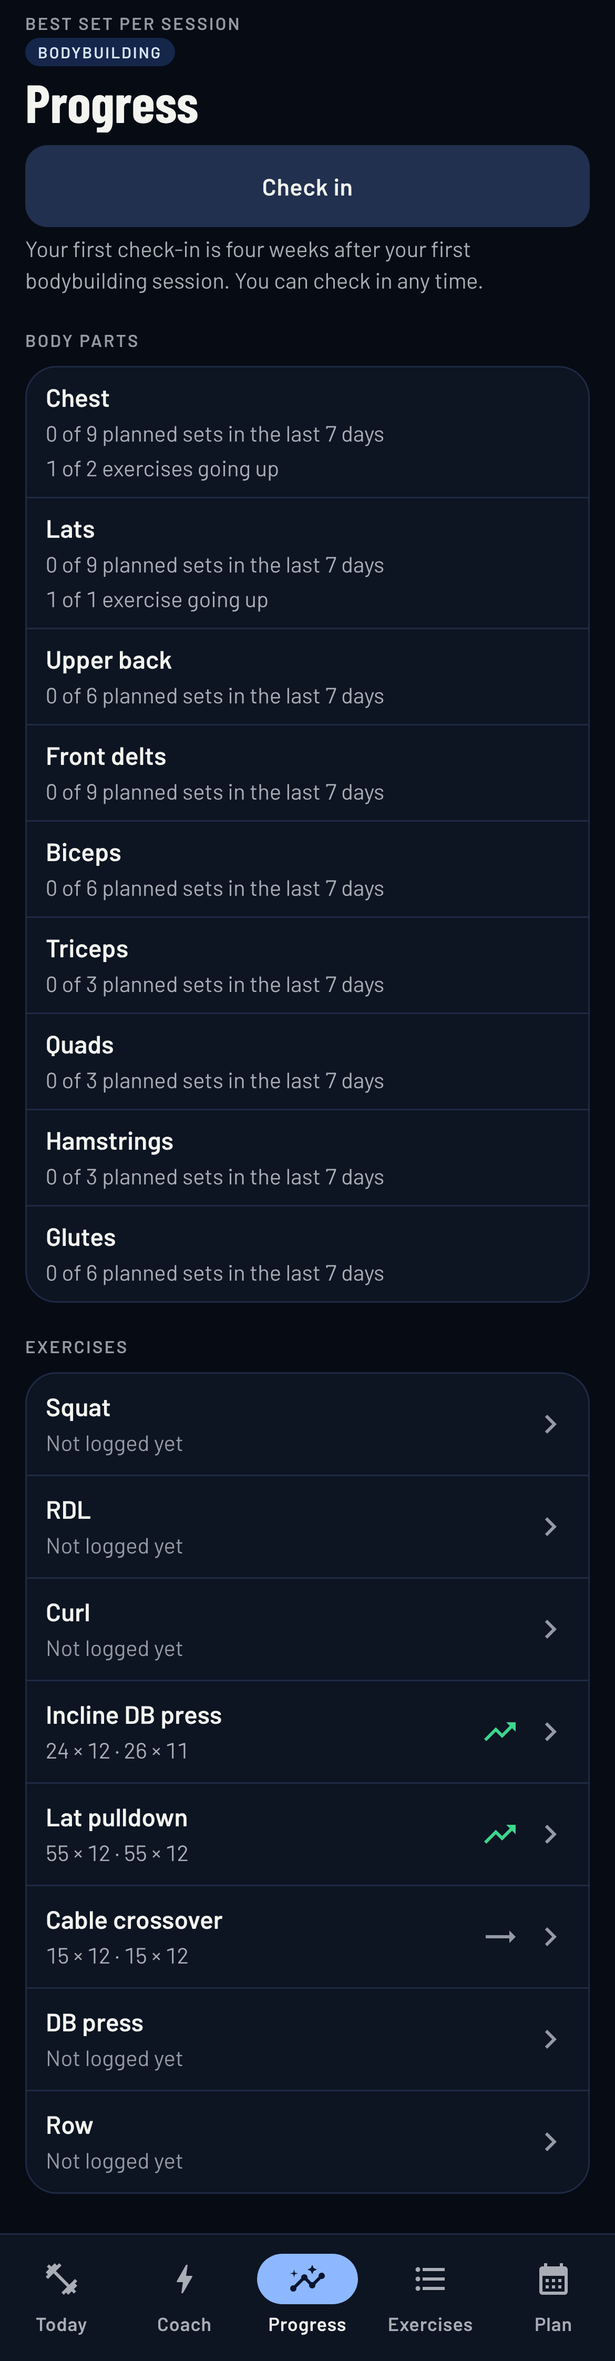
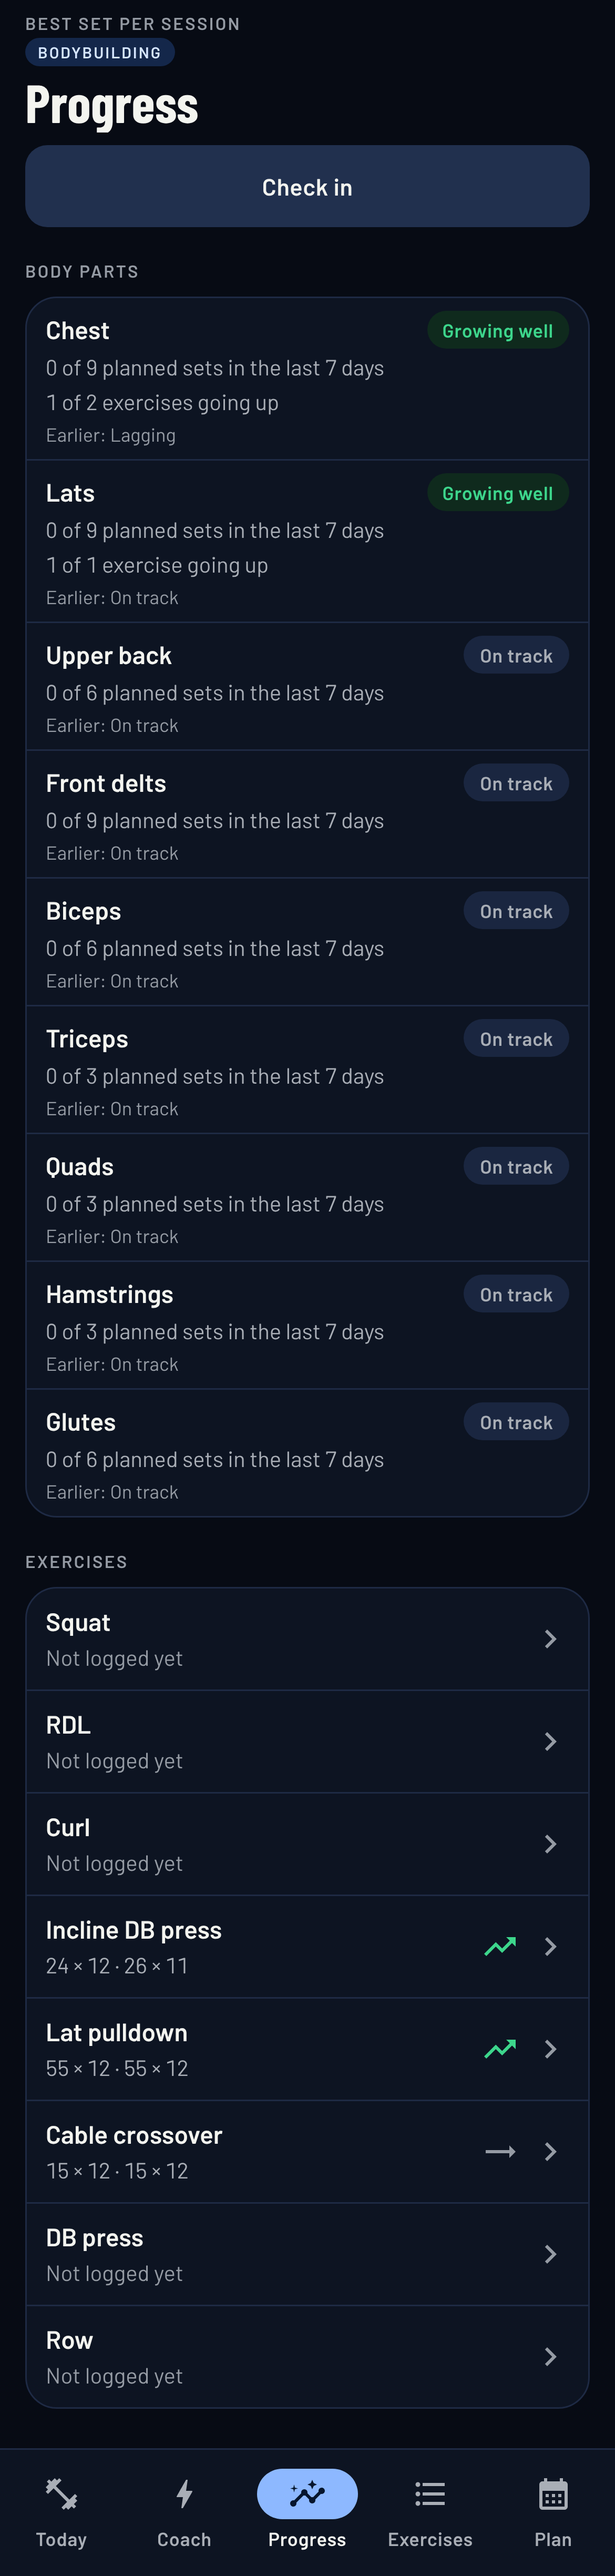
fix(web): check-in review: Back steps back, Save waits, failed writes tested
The browser's Back on step 2 of the check-in returns to step 1; Save is
disabled while it stores. Tests prove a failed Add to plan or Swap leaves
the plan and the card. The Progress screenshot shows ratings.

Claude-Session: https://claude.ai/code/session_01KboHw6FdBYrNDSMx1QWyzy

diff --git a/web/e2e/bodybuilding.spec.ts b/web/e2e/bodybuilding.spec.ts
@@ -40,6 +40,8 @@ type Story = {
    * cable crossover stuck since, with its open SWAP advice: a check-in is due again. The payloads are the domain's.
    */
   checkInDue?: boolean
+  /** Two check-ins (chest lagging four weeks ago, then growing well with lats two days ago), for Progress's ratings. */
+  checkIns?: boolean
 }
 
 /**
@@ -47,7 +49,7 @@ type Story = {
  * the bodybuilding plan (Monday, Wednesday, Friday), a powerlifting plan beside it, and two weeks of sessions.
  */
 async function seedStory(page: Page, story: Story = {}) {
-  await page.evaluate(async ({ todaySession = false, bodybuildingLeftOn = null, deload = false, checkInDue = false }) => {
+  await page.evaluate(async ({ todaySession = false, bodybuildingLeftOn = null, deload = false, checkInDue = false, checkIns = false }) => {
     const db = await new Promise<IDBDatabase>((done, fail) => {
       const request = indexedDB.open('grit')
       request.onsuccess = () => done(request.result)
@@ -132,6 +134,10 @@ async function seedStory(page: Page, story: Story = {}) {
         payloadJson: `{"type":"${P}.Swap","exerciseId":${crossover},"name":"Cable crossover","group":"CHEST","since":"2026-10-14","alternatives":["DB fly","Seated cable fly","Incline DB fly"]}`,
         mode: 'BODYBUILDING',
       })
+    }
+    if (checkIns) {
+      tx.objectStore('checkIns').add({ date: '2026-10-14', lagging: ['CHEST'], growingWell: [] })
+      tx.objectStore('checkIns').add({ date: '2026-11-09', lagging: [], growingWell: ['CHEST', 'LATS'] })
     }
     if (todaySession)
       await session('2026-11-11', [
@@ -318,6 +324,12 @@ for (const scheme of ['dark', 'light'] as const) {
       expect(await fitsThePhone(page)).toBe(true)
       await shoot(page, `checkin-lagging-bodybuilding-${scheme}`, 844)
       await page.getByRole('button', { name: 'Next' }).click()
+      // The browser's Back steps back to step 1, ticks kept, and Next goes on again.
+      await expect(page.getByRole('heading', { name: 'Which are growing well?' })).toBeVisible()
+      await page.goBack()
+      await expect(page.getByRole('heading', { name: 'Which body parts are lagging?' })).toBeVisible()
+      await expect(page.getByRole('checkbox', { name: 'Chest' })).toBeChecked()
+      await page.getByRole('button', { name: 'Next' }).click()
 
       await expect(page.getByRole('heading', { name: 'Which are growing well?' })).toBeVisible()
       await expect(page.getByRole('checkbox', { name: 'Chest' })).toBeDisabled()
@@ -345,7 +357,13 @@ for (const scheme of ['dark', 'light'] as const) {
 
     test('progress: each exercise’s best sets and whether it is going up', async ({ page }) => {
       await openOnWednesday(page, '#/progress')
-      await seedStory(page)
+      await seedStory(page, { checkIns: true })
+      // The body parts: each one's latest rating, and the earlier ones, oldest first.
+      const parts = page.getByRole('region', { name: 'Body parts' })
+      const chest = parts.getByRole('listitem').filter({ has: page.getByRole('heading', { name: 'Chest', exact: true }) })
+      await expect(chest).toContainText('Growing well')
+      await expect(chest).toContainText('Earlier: Lagging')
+      await expect(parts.getByRole('listitem').filter({ has: page.getByRole('heading', { name: 'Upper back', exact: true }) })).toContainText('On track')
       const incline = page.getByRole('button', { name: /^Incline DB press/ })
       await expect(incline).toContainText('24 × 12')
       await expect(incline).toContainText('26 × 11')
@@ -584,4 +602,16 @@ test('a check-in story: build a plan, train four weeks, check in, apply the coac
   await expect(row('Quads')).toContainText('Growing well')
   await expect(row('Lats')).toContainText('On track')
   await expect(page.getByText('Your first check-in is four weeks after your first bodybuilding session. You can check in any time.')).toHaveCount(0)
+})
+
+test('the check-in: the browser’s Back from step 1 leaves for where it was opened', async ({ page }) => {
+  await openOnWednesday(page, '#/progress')
+  await seedStory(page)
+  await page.getByRole('button', { name: 'Check in' }).click()
+  await page.getByRole('button', { name: 'Next' }).click()
+  await page.goBack()
+  await expect(page.getByRole('heading', { name: 'Which body parts are lagging?' })).toBeVisible()
+  await page.goBack()
+  await expect(page).toHaveURL(/#\/progress$/)
+  await expect(page.getByRole('heading', { level: 1, name: 'Progress' })).toBeVisible()
 })

diff --git a/web/src/screens/checkin/CheckInScreen.tsx b/web/src/screens/checkin/CheckInScreen.tsx
@@ -66,8 +66,42 @@ type ContentProps = { state: CheckInState; actions: CheckInActions; onLeave: () 
 
 const groups = () => grit.muscleGroups().map((id) => ({ id, label: grit.muscleGroupLabel(id) }))
 
+/** What the history entry of step 2 carries, beside what the page's own entry had (its `gritFrom`). */
+type StepEntry = { checkInStep?: 'growing' }
+const onStepEntry = () => (window.history.state as StepEntry | null)?.checkInStep === 'growing'
+
 function CheckInContent({ state, actions, onLeave, onSeeCoach, onDone }: ContentProps) {
   const { step } = state
+  // Step 2 has its own history entry (same address), so the browser's Back steps back to step 1, as Android's does;
+  // Back from step 1 leaves. What to do on the next popstate when it is not that: stay (after saving) or leave.
+  const nextPop = useRef<null | 'stay' | (() => void)>(null)
+  const stepNow = useRef(step)
+  stepNow.current = step
+  const { back } = actions
+  useEffect(() => {
+    const onPop = () => {
+      const then = nextPop.current
+      nextPop.current = null
+      if (then === 'stay') return
+      if (then != null) then()
+      else if (stepNow.current === 'growing') back()
+    }
+    window.addEventListener('popstate', onPop)
+    return () => window.removeEventListener('popstate', onPop)
+  }, [back])
+  const next = () => {
+    window.history.pushState({ ...((window.history.state as object | null) ?? {}), checkInStep: 'growing' } satisfies StepEntry, '')
+    actions.next()
+  }
+  /** Drops step 2's entry, then does `then` ('stay' keeps the screen as it is). */
+  const dropStepEntry = (then: 'stay' | (() => void)) => {
+    if (!onStepEntry()) {
+      if (then !== 'stay') then()
+      return
+    }
+    nextPop.current = then
+    window.history.back()
+  }
   // A failed save is a plain line over the buttons, until the next try.
   const [failed, setFailed] = useState(false)
   const failure = useRef<HTMLParagraphElement>(null)
@@ -78,6 +112,8 @@ function CheckInContent({ state, actions, onLeave, onSeeCoach, onDone }: Content
     setFailed(false)
     try {
       await actions.save()
+      // Saved: Back no longer goes to step 2, and Done or See Coach leave from the page's own entry.
+      dropStepEntry('stay')
     } catch {
       setFailed(true)
     }
@@ -89,7 +125,7 @@ function CheckInContent({ state, actions, onLeave, onSeeCoach, onDone }: Content
         title={CHECK_IN_TITLE}
         eyebrow={eyebrow}
         label={<ModeLabel />}
-        navigation={step === 'saved' ? undefined : <IconButton label="Close" icon={<CloseIcon />} onClick={onLeave} />}
+        navigation={step === 'saved' ? undefined : <IconButton label="Close" icon={<CloseIcon />} onClick={() => dropStepEntry(onLeave)} />}
       />
       {step === 'lagging' && (
         <div className="screen-body ci-body">
@@ -136,11 +172,12 @@ function CheckInContent({ state, actions, onLeave, onSeeCoach, onDone }: Content
         </div>
       )}
       <div className="ci-actions">
-        {step === 'lagging' && <PrimaryButton text="Next" onClick={actions.next} />}
+        {step === 'lagging' && <PrimaryButton text="Next" onClick={next} />}
         {step === 'growing' && (
           <>
-            <SecondaryButton text="Back" onClick={actions.back} />
-            <PrimaryButton text="Save" onClick={() => void save()} />
+            {/* As the browser's Back: through history when step 2 has its entry. */}
+            <SecondaryButton text="Back" onClick={() => (onStepEntry() ? window.history.back() : actions.back())} />
+            <PrimaryButton text="Save" onClick={() => void save()} enabled={!state.saving} />
           </>
         )}
         {step === 'saved' && (

diff --git a/web/src/screens/checkin/CheckInScreen.test.tsx b/web/src/screens/checkin/CheckInScreen.test.tsx
@@ -182,6 +182,63 @@ describe('the check-in screen', () => {
     expect(screen.queryByRole('heading', { name: LAGGING_QUESTION })).toBeNull()
   })
 
+  it('browserBack_onStep2_goesBackToStep1_keepingTheTicks', async () => {
+    await defaultPlan()
+    const { onLeave } = show()
+    await userEvent.click(await screen.findByRole('checkbox', { name: 'Chest' }))
+    await tap('Next')
+    await userEvent.click(box('Quads'))
+    window.history.back()
+    expect(await screen.findByRole('heading', { name: LAGGING_QUESTION })).toBeInTheDocument()
+    expect((box('Chest') as HTMLInputElement).checked).toBe(true)
+    expect(onLeave).not.toHaveBeenCalled()
+    // Forward again by Next: growing well is as it was left.
+    await tap('Next')
+    expect((box('Quads') as HTMLInputElement).checked).toBe(true)
+    // The on-screen Back does the same as the browser's.
+    await tap('Back')
+    expect(await screen.findByRole('heading', { name: LAGGING_QUESTION })).toBeInTheDocument()
+  })
+
+  it('afterSaving_theStepIsGoneFromHistory_soDoneLeavesFromWhereItWasOpened', async () => {
+    await defaultPlan()
+    window.history.replaceState({ gritFrom: '#/progress' }, '')
+    const length = window.history.length
+    const { onDone } = show()
+    await tap('Next')
+    expect((window.history.state as { checkInStep?: string }).checkInStep).toBe('growing')
+    await tap('Save')
+    expect(await screen.findByRole('heading', { name: SAVED_TITLE })).toBeInTheDocument()
+    await waitFor(() => expect((window.history.state as { gritFrom?: string; checkInStep?: string })).toEqual({ gritFrom: '#/progress' }))
+    // Still on the saved step after the step entry is gone.
+    expect(screen.getByRole('heading', { name: SAVED_TITLE })).toBeInTheDocument()
+    expect(window.history.length).toBeGreaterThanOrEqual(length)
+    await tap('Done')
+    expect(onDone).toHaveBeenCalled()
+  })
+
+  it('closeOnStep2_leavesWithoutSaving', async () => {
+    await defaultPlan()
+    const { onLeave } = show()
+    await tap('Next')
+    await tap('Close')
+    await waitFor(() => expect(onLeave).toHaveBeenCalled())
+    expect((window.history.state as { checkInStep?: string } | null)?.checkInStep).toBeUndefined()
+    expect(await db.checkIns.count()).toBe(0)
+  })
+
+  it('save_isDisabledWhileSaving', async () => {
+    await defaultPlan()
+    show()
+    await tap('Next')
+    const transaction = vi.spyOn(db, 'transaction').mockImplementation((() => new Promise(() => {})) as never)
+    await tap('Save')
+    expect(screen.getByRole('button', { name: 'Save' })).toBeDisabled()
+    await userEvent.click(screen.getByRole('button', { name: 'Save' }))
+    expect(transaction).toHaveBeenCalledTimes(1)
+    transaction.mockRestore()
+  })
+
   it('aFailedSave_changesNothing_andSaysSo', async () => {
     await defaultPlan()
     await db.advice.add(MORE_WORK_OPEN)

diff --git a/web/src/screens/physique.test.tsx b/web/src/screens/physique.test.tsx
@@ -203,6 +203,50 @@ describe('Coach: more work', () => {
   })
 })
 
+describe('Coach: a failed write', () => {
+  const failing = () => {
+    throw new Error('disk full')
+  }
+
+  it('moreWork_addToPlan_leavesThePlanAndTheCardAndSaysSo', async () => {
+    await defaultPlan()
+    await checkIn(['CHEST'])
+    const before = await planRows()
+    // The set additions are updates of planned items.
+    db.planItems.hook('updating', failing)
+    try {
+      showCoach()
+      await userEvent.click(within(await card('Chest is lagging')).getByRole('button', { name: 'Add to plan' }))
+      expect(await screen.findByText("Couldn't update — try again")).toBeInTheDocument()
+      expect(await card('Chest is lagging')).toBeInTheDocument()
+    } finally {
+      db.planItems.hook('updating').unsubscribe(failing)
+    }
+    expect(await planRows()).toEqual(before)
+    expect((await db.advice.toArray()).map((a) => a.status)).toEqual(['OPEN'])
+  })
+
+  it('swap_leavesThePlanAndTheCardAndSaysSo', async () => {
+    await defaultPlan()
+    await stuckLegPress()
+    await storeStuck()
+    const before = await planRows()
+    // The swap's new items are added (its old ones deleted first, in the same transaction).
+    db.planItems.hook('creating', failing)
+    try {
+      showCoach()
+      await userEvent.click(within(await card("Leg press hasn't moved in 3 weeks")).getByRole('button', { name: 'Swap for Hack squat' }))
+      expect(await screen.findByText("Couldn't update — try again")).toBeInTheDocument()
+      expect(await screen.findByRole('button', { name: 'Swap for Hack squat' })).toBeInTheDocument()
+    } finally {
+      db.planItems.hook('creating').unsubscribe(failing)
+    }
+    expect(await planRows()).toEqual(before)
+    expect((await db.advice.toArray()).map((a) => a.status)).toEqual(['OPEN'])
+    expect((await db.exercises.toArray()).some((e) => e.name === 'Hack squat')).toBe(false)
+  })
+})
+
 describe('Coach: a stuck exercise', () => {
   it('card_andSwap_replacesItOnEveryPlannedDay_keepingThePrescription', async () => {
     await defaultPlan()

diff --git a/web/src/state/useCheckIn.ts b/web/src/state/useCheckIn.ts
@@ -27,6 +27,8 @@ export type CheckInState = {
   saved: SavedLine[]
   /** After saving: whether any body part got more work, so Coach has a card to see. */
   hasAdvice: boolean
+  /** True while Save is storing: Save is disabled until it is done. */
+  saving: boolean
 }
 
 export type CheckInActions = {
@@ -79,6 +81,7 @@ export function useCheckIn(db: GritDb, today: () => string): CheckInState & Chec
   const [growingWell, setGrowingWell] = useState<string[]>([])
   const [saved, setSaved] = useState<SavedLine[]>([])
   const saving = useRef(false)
+  const [busy, setBusy] = useState(false)
 
   useEffect(() => {
     let live = true
@@ -105,12 +108,14 @@ export function useCheckIn(db: GritDb, today: () => string): CheckInState & Chec
   const save = useCallback(async () => {
     if (saving.current) return
     saving.current = true
+    setBusy(true)
     try {
       const lines = await storeCheckIn(db, clock.current(), lagging, growingWell)
       setSaved(lines)
       setStep('saved')
     } finally {
       saving.current = false
+      setBusy(false)
     }
   }, [db, lagging, growingWell])
 
@@ -122,6 +127,7 @@ export function useCheckIn(db: GritDb, today: () => string): CheckInState & Chec
     growingWell,
     saved,
     hasAdvice: saved.some((l) => l.kind === 'advice'),
+    saving: busy,
     toggleLagging,
     toggleGrowing,
     next,
